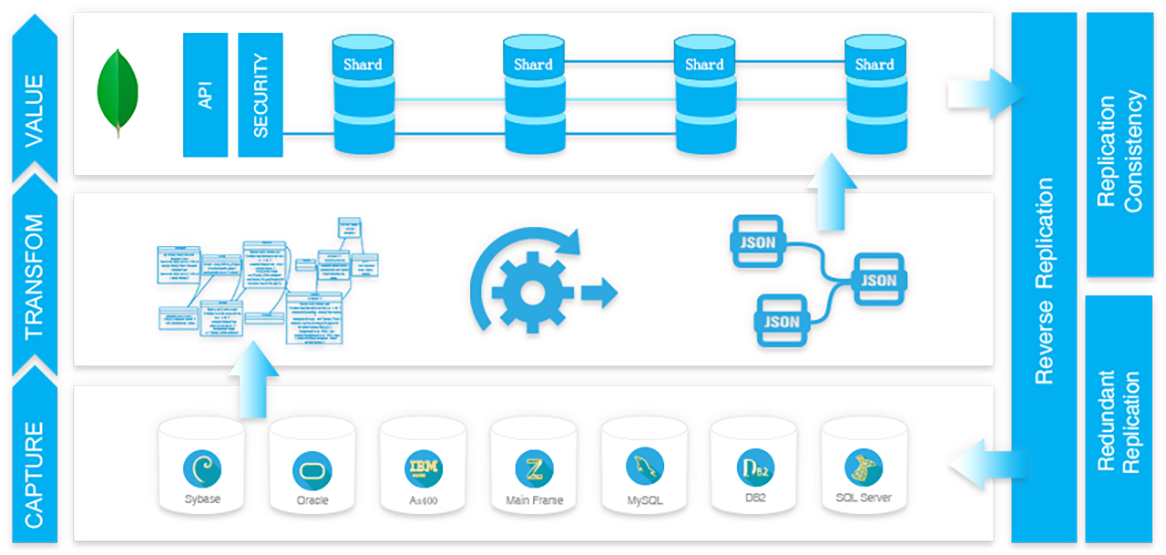
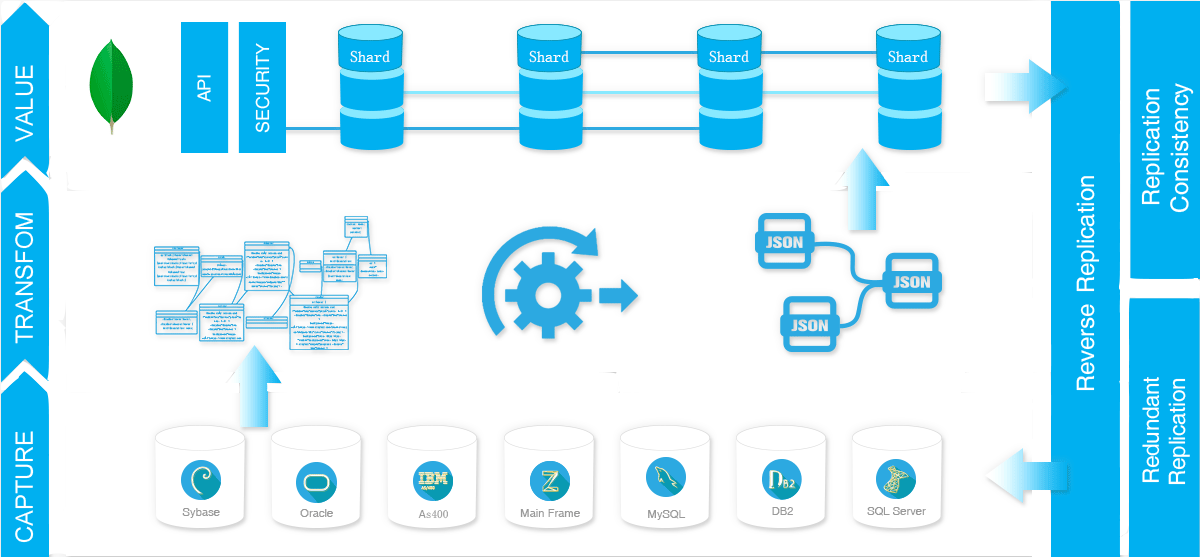
图片尺寸修改

Changed region(s): [[0.0, 0.0, 1.0, 1.0], [0.4014, 0.3982, 0.5249, 0.6126]]

diff --git a/architeture.css b/architeture.css
@@ -123,8 +123,8 @@
   position: absolute;
   right: 0px;
   margin: 0 auto;
-  width: 680px;
-  height: 320px;
+  width: 835px;
+  height: 389px;
   background-image: url(/images/architecture/transfrom.png);
   background-size: 100% 100%;
   background-repeat: no-repeat;
